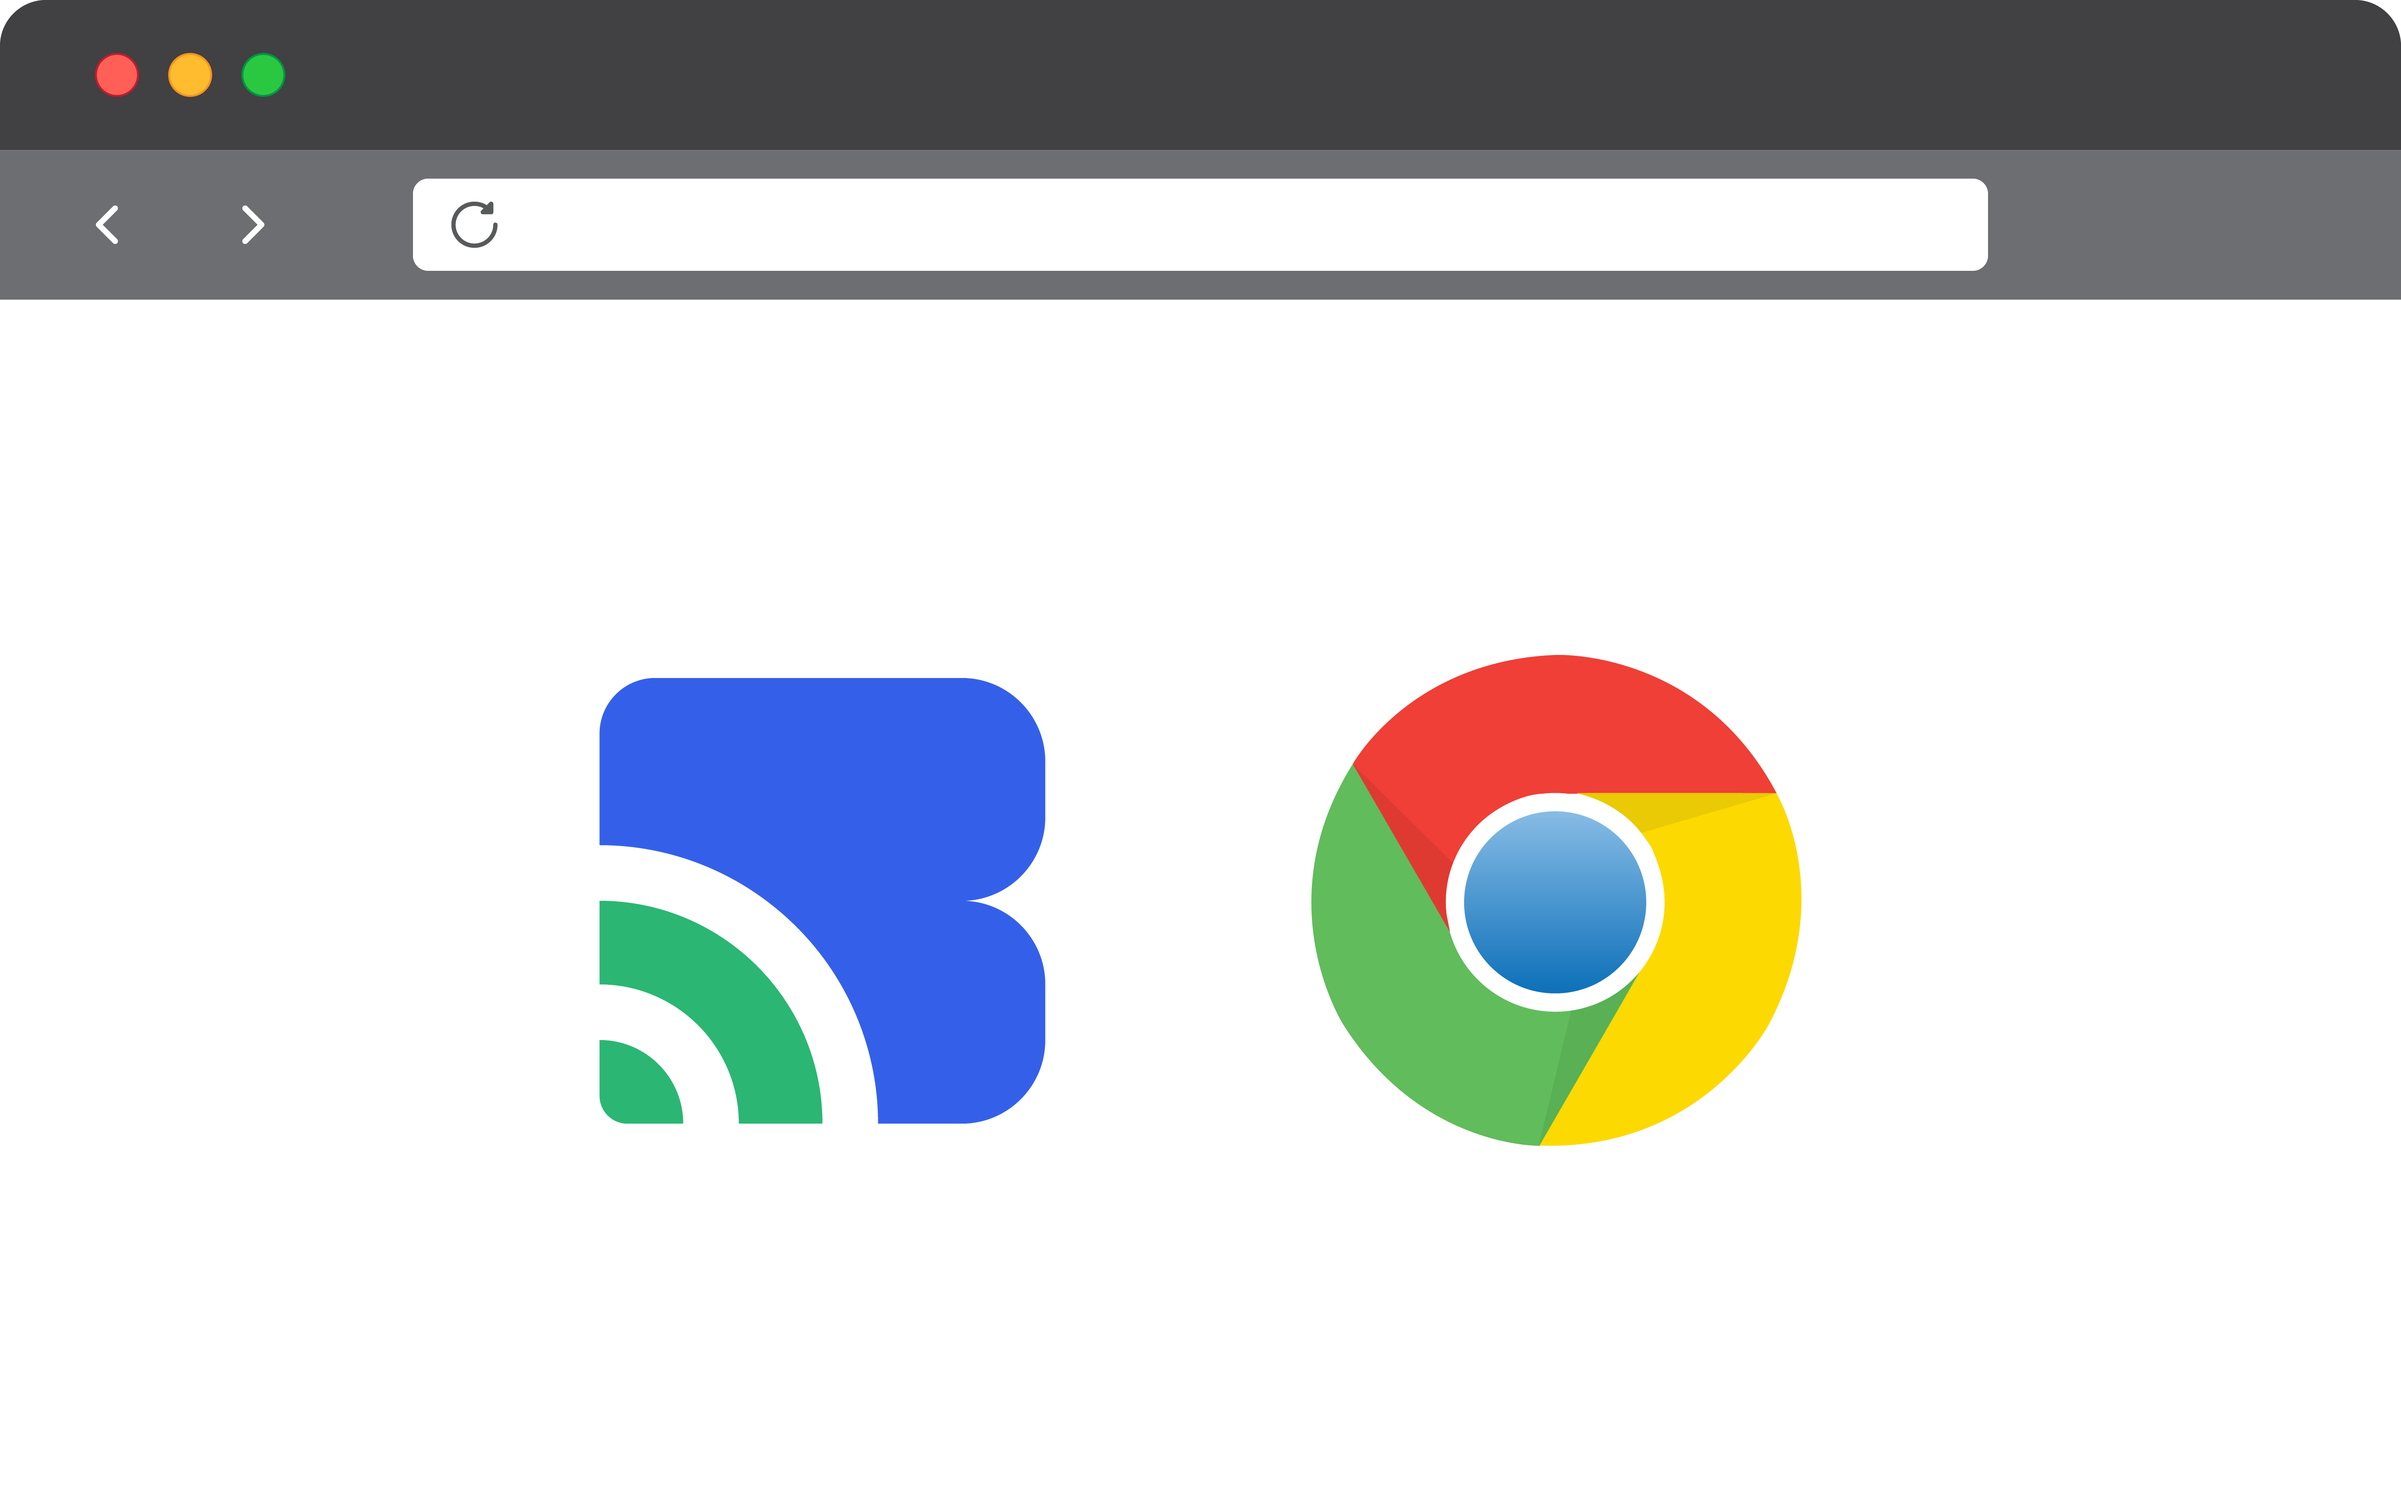
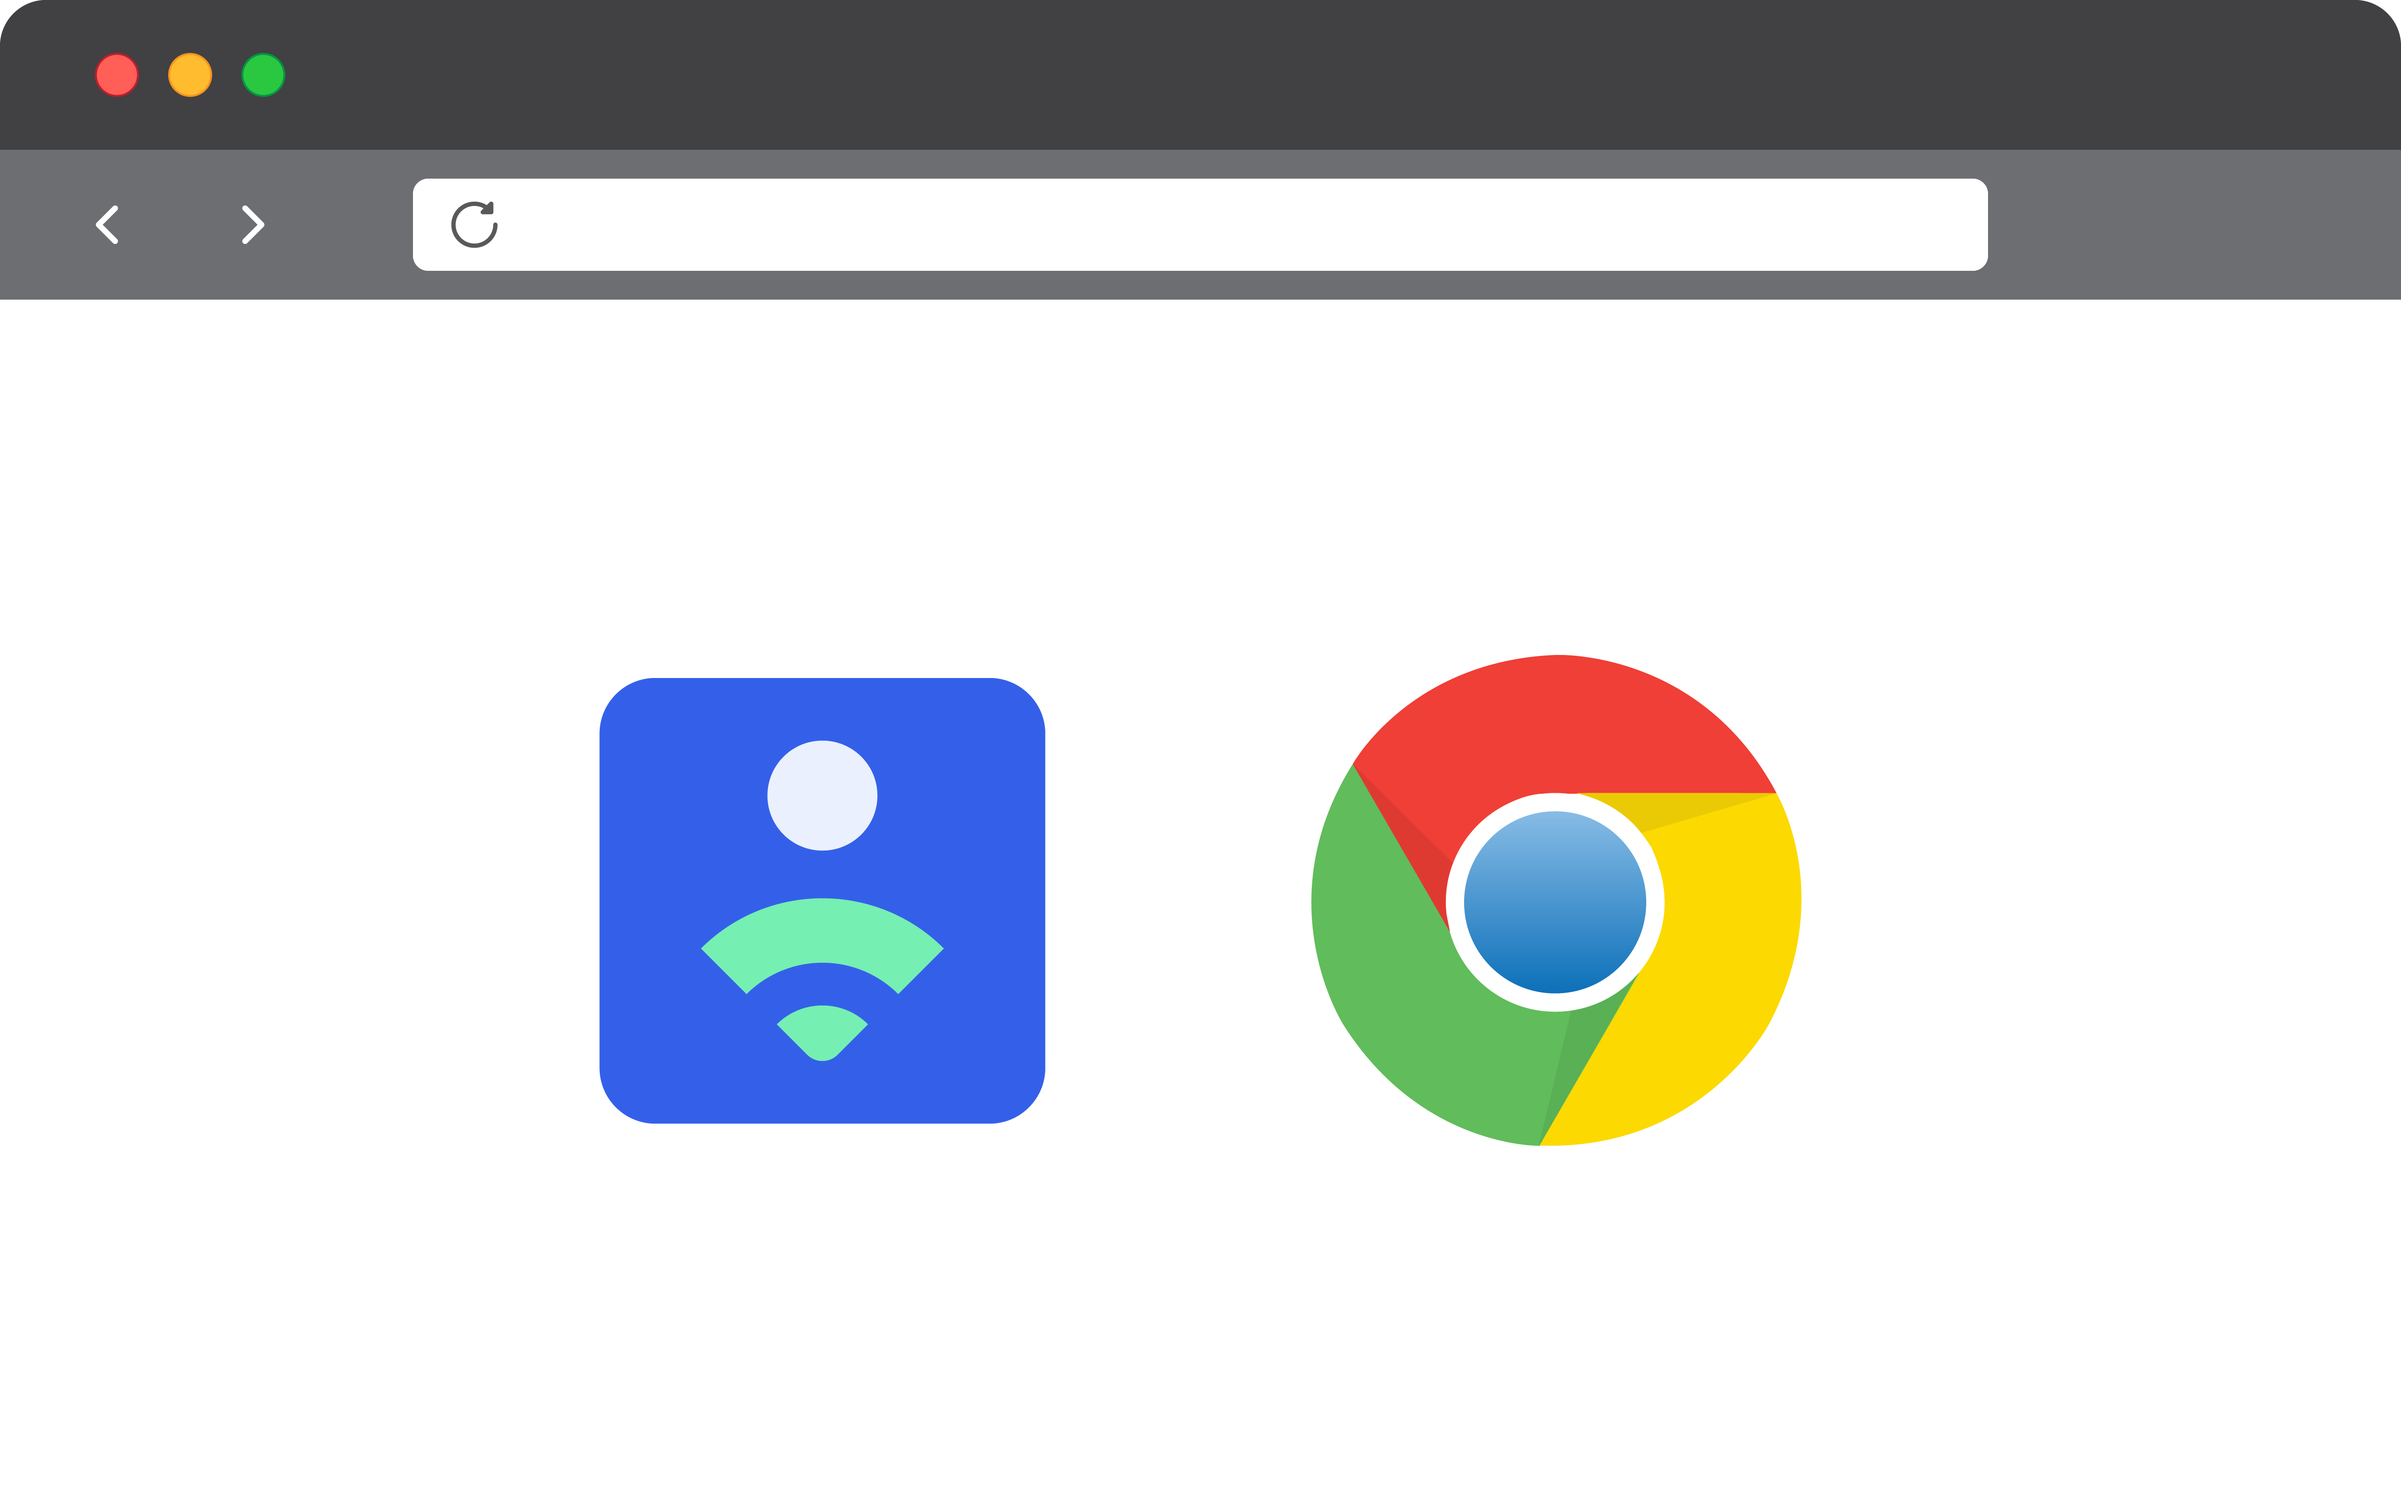
update

diff --git a/agenbagi.html b/agenbagi.html
@@ -35,7 +35,7 @@
 
         <!-- Brand -->
         <a class="navbar-brand" href="bagikuota.html">
-          <img src="./assets/img/BagiKuota_Logo horizontal.png" class="navbar-brand-img" alt="proxycurl logo">
+          <img src="./assets/img/AgenBagi_Logo horizontal.png" class="navbar-brand-img" alt="proxycurl logo">
         </a>
 
         <!-- Collapse -->
@@ -50,8 +50,8 @@
           <ul class="navbar-nav ml-auto">           
 
             <li class="nav-item">
-              <a class="nav-link" id="navbarPages" href="agenbagi.html">
-                AgenBagi
+              <a class="nav-link" id="navbarPages" href="bagikuota.html">
+                BagiKuota
               </a>
             </li>
 
@@ -245,11 +245,11 @@
           <div class="col-12 col-md-4 col-lg-6">
       
             <!-- Brand -->
-            <img style="width: 128px; height: auto;" src="assets/img//BagiKuota_Logo horizontal_White.png" alt="bagikuota logo" class="img-fluid mb-2">
+            <img style="width: 128px; height: auto;" src="assets/img/AgenBagi_Logo horizontal_White.png" alt="bagikuota logo" class="img-fluid mb-2">
 
             <!-- Text -->
             <p class="text-gray-700 mb-2">
-              Bagikuota, an offering by Sapiengraph Inc
+              AgenBagi, an offering by Sapiengraph Inc
             </p>
 
           </div>
@@ -258,8 +258,8 @@
             <!-- List -->
             <ul class="list-unstyled text-muted mb-6 mb-md-8 mb-lg-0">
               <li class="mb-3">
-                <a href="agenbagi.html" class="text-reset">
-                  AgenBagi
+                <a href="bagikuota.html" class="text-reset">
+                  BagiKuota
                 </a>
               </li>              
               <li class="mb-3">
